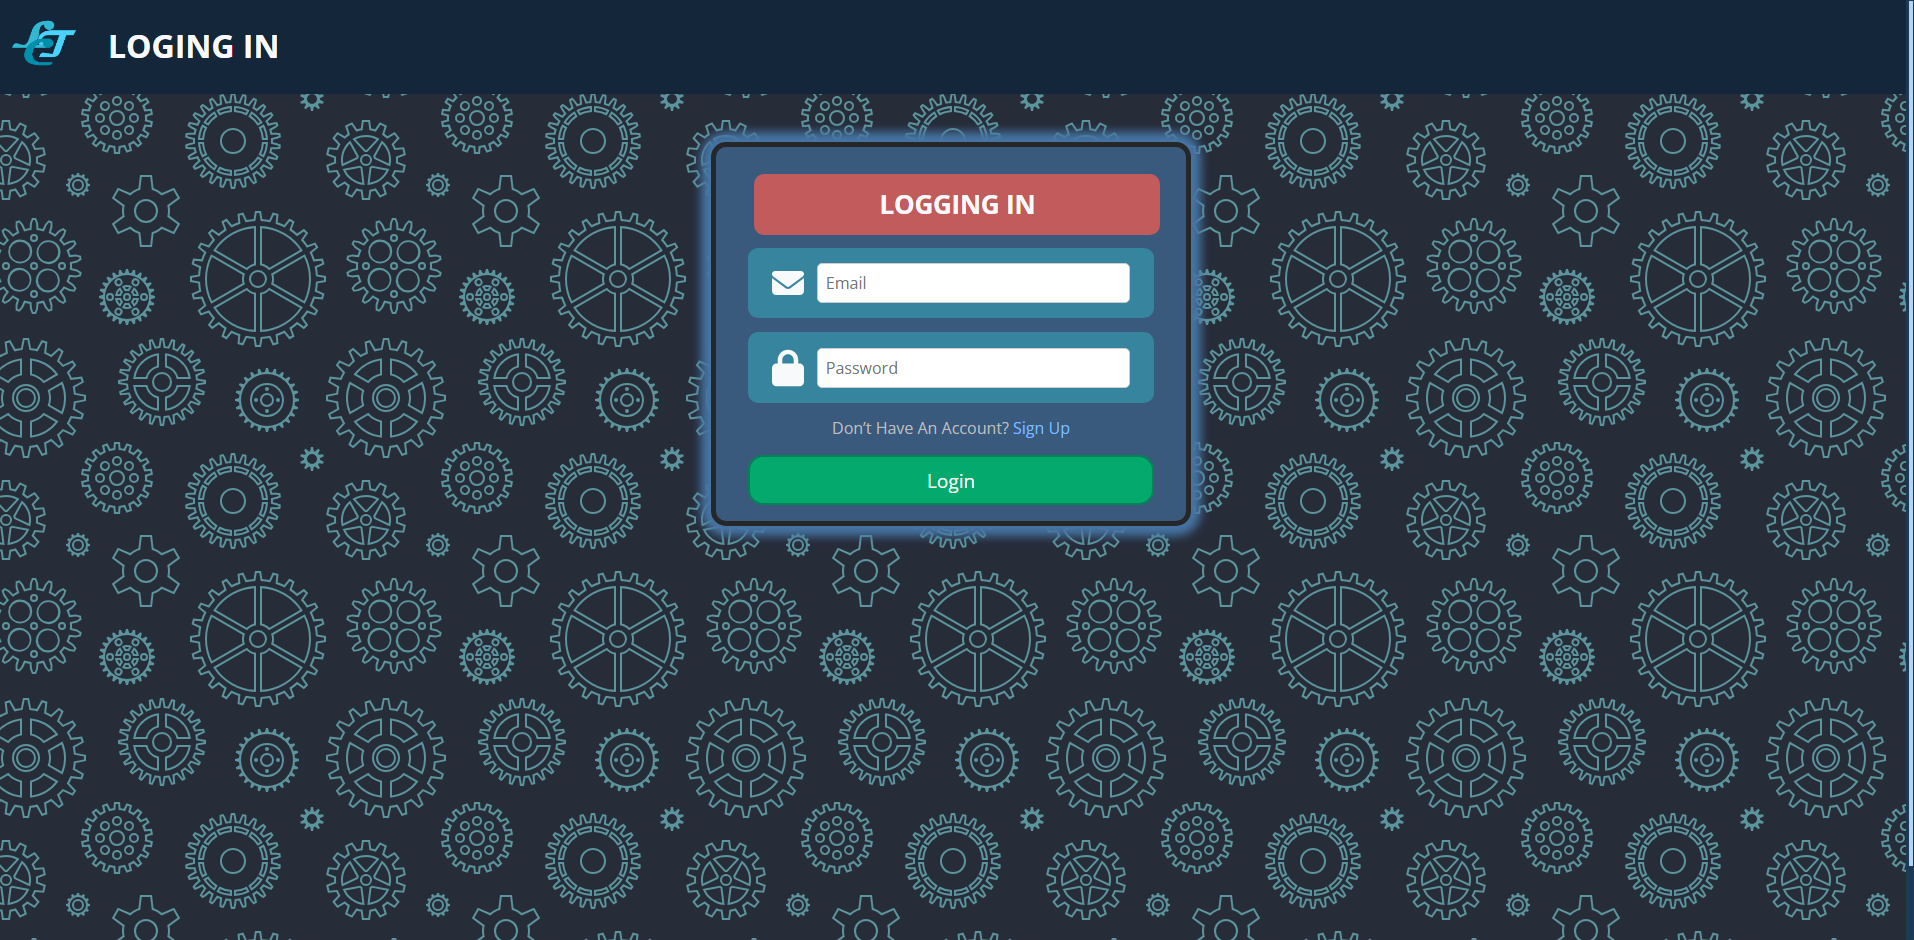
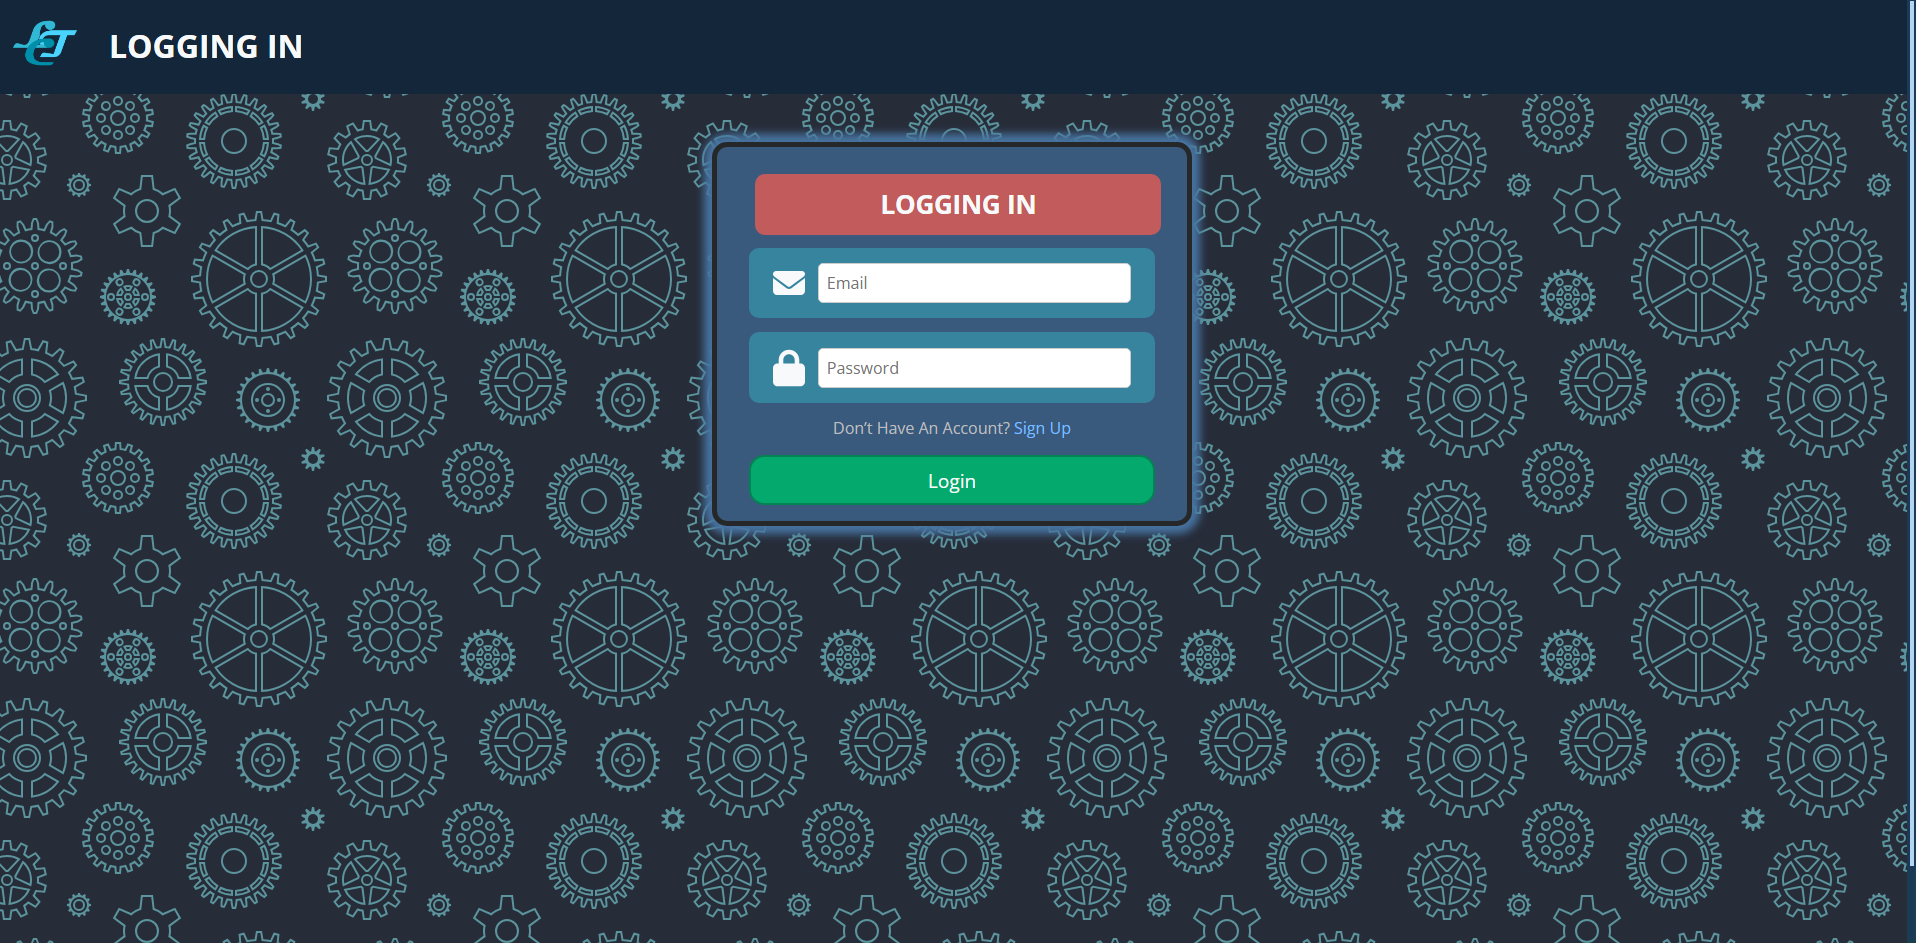
Izlabotas drukas kļūdas

diff --git a/frontend/src/Components/LoginSignup/Login.jsx b/frontend/src/Components/LoginSignup/Login.jsx
@@ -51,7 +51,7 @@ function Login() {
 
     return (
         <div className="LoginSignup">
-            <Header page="LOGING IN"/>
+            <Header page="LOGGING IN"/>
             <div className="card-container">
                 <form className="form" onSubmit={handleSubmit}>
                     <h1>LOGGING IN</h1>

diff --git a/README.md b/README.md
@@ -24,7 +24,7 @@ veidošana;
 - Laravel
 - MySQL
 
-## Izstrādes stāvkoļi
+## Izstrādes stāvokļi
 
 - [x] Lietotnes galvene ar navigāciju uz profilu reģistrētajiem lietotājiem (Header);
 - [x] Lietotnes kājene (Footer);
